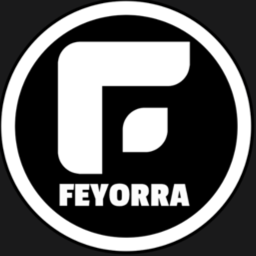
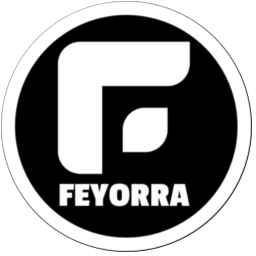
On branch master
1.Added new logos and tokens
2.Added new tables : wallets disponibilities & compatibilities
4.Release web3wallets v1

Changes to be committed:
	modified:   README.md
	modified:   config/css/main.css
	modified:   config/css/web3wallets.css
	new file:   media/buttons/boutonnoir.png
	new file:   media/buttons/boutonnoir2.png
	new file:   media/logos/aavelogo.png
	deleted:    media/logos/coinMachineLogo_v1.png
	deleted:    media/logos/cointribune.jpg
	new file:   media/logos/cointribune.png
	deleted:    media/logos/cryptoast.jpg
	new file:   media/logos/cryptoast.png
	new file:   media/logos/iopay.png
	new file:   media/logos/kpler.png
	new file:   media/logos/phantom.png
	deleted:    media/logos/twitter.jpg
	new file:   media/logos/twitter.png
	modified:   media/logos/valora.png
	modified:   media/thumbnails/ariswap01.png
	new file:   media/tokens/aave.png
	new file:   media/tokens/bfg.png
	new file:   media/tokens/biswap.png
	modified:   media/tokens/celo.png
	deleted:    media/tokens/elrond.png
	modified:   media/tokens/feyorra.png
	modified:   media/tokens/gnosis.png
	deleted:    media/tokens/gnosis_white.png
	new file:   media/tokens/litecoin.png
	modified:   media/tokens/moonriver.png
	new file:   media/tokens/pancakeswap.png
	new file:   media/tokens/wbtc.png
	new file:   media/tokens/weth.png
	modified:   pages/web3wallets.php
	modified:   scripts/paging/main_menu.php

Changed region(s): [[0.0, 0.0, 1.0, 1.0]]

diff --git a/config/css/web3wallets.css b/config/css/web3wallets.css
@@ -14,11 +14,12 @@
     padding: 0;
 }
 #wallets-main .row {
+    display: flex;
     margin: 0;
     padding: 0;
 }
 .wallet-container {
-    margin-left: 100px;
+    margin: 20px auto;
     margin-bottom: 10px;
     padding: 10px;
     border: 1px outset #06c883;
@@ -61,6 +62,71 @@
 #wmm-title:hover, #wmm-title a:hover, .wmm-link:hover, .wmm-link a:hover {
     background-image: linear-gradient(45deg, #8306c8, #06acc8);
 }
+/* *** *** *** USER TABLES *** *** *** */
+table {
+    opacity: 0.95;
+    border-collapse: collapse;
+}
+#wallet-compat-tab {
+    margin-top: 10px;
+}
+#wallet-compat-tab thead tr th{
+    writing-mode: vertical-lr;
+    padding-bottom: 4px;
+    text-align: center;
+}
+th {
+    flex-wrap: wrap;
+    vertical-align: bottom;
+    text-align: center;
+    padding-bottom: 2px;
+}
+tr {
+    margin: 0;
+    padding: 0;
+    border-bottom: 1px solid #06c883;
+}
+.user-check {
+    display: inline-block;
+    text-align: center;
+    vertical-align: middle;
+    justify-content: center;
+    align-items: center;
+    align-self: center;
+    font-size: 1.25em;
+}
+#wallet-dispo-tab thead tr {
+    background-clip: text;
+    -moz-background-clip: text;
+    -webkit-background-clip: text;
+    color: transparent;
+    background-image: linear-gradient(45deg, #ebef7b, #06c883);
+}
+#wallet-dispo-tab thead tr th {
+    font-family: "Share Tech Mono", monospace;
+    font-size: 1em;
+    color: transparent;
+}
+td a, th a {
+    font-family: "AudioWide", sans-serif;
+    font-size: 1.2em;
+    font-style: italic;
+    text-decoration: none;
+    background-clip: text;
+    -moz-background-clip: text;
+    -webkit-background-clip: text;
+    color: transparent;
+    background-image: linear-gradient(45deg, #06c883, #ebef7b);
+}
+td a:hover, th a:hover {
+    background-image: linear-gradient(45deg, #8306c8, #06acc8);
+}
+.tst {
+    font-family: "Share Tech Mono", monospace;
+    font-size: 1.2em;
+    text-align: right;
+    color: #06c883;
+}
 /* *** *** *** TITRAGES *** *** *** */
 #wallets-main-label, .wallet-details label {
     font-family: "Audiowide";
@@ -68,7 +134,6 @@
     -moz-background-clip: text;
     -webkit-background-clip: text;
     color: transparent;
-    
 }
 #wallets-main-label {
     margin: 10px auto;
@@ -92,6 +157,18 @@
     text-align: right;
     font-size: 1.1em;
     color: darkgray;
+}
+.wallet-rubric {
+    font-family: "Aldrich", sans-serif;
+    font-size: 1.5em;
+    font-weight: 600;
+    letter-spacing: 0.2em;
+    text-align: left;
+    background-clip: text;
+    -moz-background-clip: text;
+    -webkit-background-clip: text;
+    color: transparent;
+    background-image: linear-gradient(45deg, #ebef7b, #06c883);
 }
 /* *** *** *** USER CLASSES *** *** *** */
 .wallet-logo-container {
@@ -119,7 +196,7 @@
     color: #06c883;
 }
 .user-red {
-    color: #ff0000;
+    color: darkred;
 }
 .wallet-mobile-downloads {
     margin-top: 4px;
@@ -161,16 +238,27 @@
     color: transparent;
     background-image: linear-gradient(45deg, #06c883, #ebef7b);
 }
+.wallet-description a {
+    font-family: "Share Tech Mono", monospace;
+    color: #25f9e3;
+    text-decoration: none;
+}
+.wallet-description a:hover {
+    color: #7ece4d;
+    text-decoration: underline;
+}
 /* *** *** *** TOKENS STANDARDS CLASSES *** *** *** */
 :root {
     --eth1: #8c8c8c;
     --eth2: #505050;
     --eth3: #141414;
-    --bsc: #f4ba4f;
+    --bsc: #f4e94f;
     --tron: #fe0000;
-    --btc: #f7931a;
+    --btc: #db7c09;
     --erd: #25f9e3;
     --cerc: #7ece4d;
+    --spl: #5433d5;
+    --ibc: #0378c5;
 }
 .erc {
     border: 1px inset var(--eth2);
@@ -201,6 +289,16 @@
     border: 1px inset var(--cerc);
     box-shadow: 0 0 4px inset var(--cerc);
     color: var(--cerc);
+}
+.sol {
+    border: 1px inset var(--spl);
+    box-shadow: 0 0 4px inset var(--spl);
+    color: var(--spl);
+}
+.atom {
+    border: 1px inset var(--ibc);
+    box-shadow: 0 0 4px inset var(--ibc);
+    color: var(--ibc);
 }
 .wallet-compatibility {
     margin: 2px 2px;

diff --git a/config/css/main.css b/config/css/main.css
@@ -5,7 +5,7 @@
 // Role         : main CSS stylesheet
 // Author       : CoinMachine
 // Creation     : 2023-06-11
-// Last update  : 2023-06-12
+// Last update  : 2023-06-15
 // ===================================================================================================== */
 /* 
     green : #60e660
@@ -95,14 +95,19 @@ body {
     width: 100%;
 }
 #main-navbar-container a, #main-navbar-container ul li a {
+    width: fit-content;
+    min-width: 120px;
+    margin: 0 10px;
     padding: 5px 15px;
     font-family: "Aldrich";
     font-size: 20px;
-    text-align: left;
+    text-align: center;
+    background-color: #000;
+    color: #00a36a;
     transition: all 0.85s ease-in-out;
 }
 #main-navbar-container a:hover {
-    background-color: #06c883;
+    background-color: #00a36a;
     color: #000;
     border-radius: 20px;
 }
@@ -114,7 +119,7 @@ body {
     min-width: 15rem;
     width: 100%;
     padding-left: 10px;
-    opacity: 0.8;
+    opacity: 0.85;
     background-color: #000;
     border: 1px solid #06c883;
 }
@@ -122,6 +127,16 @@ body {
     display: inline-block;
     width: 100%;
     flex-wrap: nowrap;
+    padding: 5px 15px;
+    font-family: "Aldrich";
+    font-size: 20px;
+    text-align: left;
+    transition: all 0.85s ease-in-out; 
+}
+.ddm-user li:hover, .ddm-user li a:hover {
+    background-color: #06c883;
+    color: #000;
+    border-radius: 20px;
 }
 .ddm-hr {
     margin: 5px auto;

diff --git a/pages/web3wallets.php b/pages/web3wallets.php
@@ -20,6 +20,7 @@ $siteInformations = [];
 
 $tabWallets = getWalletsInformations();                 // Get the wallets informations
 $tabCompatibilities = getWalletsCompatibilities();      // Get the wallets compatibilities
+$tabTokenStandards = getTokenStandards();               // Get the token standards
 
 createHTMLheader($fileName, $siteInformations);         // Create the HTML header
 createPageheader($fileName);                            // Create the page header
@@ -39,8 +40,82 @@ creatMainMenu($fileName);                               // Create the main menu
 <?php   } ?>
             </ul>
         </nav>
-        <section id ="wallets-main" class="offset-5 col-8">
+        <section id ="wallets-main" class="offset-6 col-8">
             <div class="row">
+<!-- --- --- --- WALLETS DETAILS SUMMARY --- --- --- -->
+                <h3 class="wallet-rubric col-7">Disponibilités</h3>
+                <table id="wallet-dispo-tab" class="col-12">
+                    <thead>
+                        <tr class="row">
+                            <th class="col-3"></th>
+                            <th class="col-2">iOS</th>
+                            <th class="col-2">Android</th>
+                            <th class="col-2">Wallet Connect</th>
+                            <th class="col-3">Browser extension</th>
+                        </tr>
+                    </thead>
+                    <tbody>
+<?php   for($i = 0; $i < count($tabWallets); $i++){ ?>
+                        <tr class="row">
+                            <td class="col-3"><a href="<?php echo "#wallet" . $i;?>"><?php echo $tabWallets[$i]['Name'];?></a></td>
+<?php       if($tabWallets[$i]['Applestore'] != ""){ ?>
+                            <td class="user-check col-2"><span class="fa-solid fa-check user-green"></span></td>
+<?php       } else { ?>
+                            <td class="user-check col-2"><span class="fa-solid fa-xmark user-red"></span></td>
+<?php       }
+            if($tabWallets[$i]['Playstore'] != ""){ ?>
+                            <td class="user-check col-2"><span class="fa-solid fa-check user-green"></span></td>
+<?php       } else { ?>
+                            <td class="user-check col-2"><span class="fa-solid fa-xmark user-red"></span></td>
+<?php       }
+            if($tabWallets[$i]['WalletConnect'] != FALSE){ ?>
+                            <td class="user-check col-2"><span class="fa-solid fa-check user-green"></span></td>
+<?php       } else { ?>
+                            <td class="user-check col-2"><span class="fa-solid fa-xmark user-red"></span></td>
+<?php       }
+            if($tabWallets[$i]['Browser'] != ""){ ?>
+                            <td class="user-check col-3"><span class="fa-solid fa-check user-green"></span></td>
+<?php       } else { ?>
+                            <td class="user-check col-3"><span class="fa-solid fa-xmark user-red"></span></td>
+<?php       } ?>
+                        </tr>
+<?php   } ?>
+                    </tbody>
+                </table>
+                <table id="wallet-compat-tab" class="col-12">
+                    <thead>
+                        <tr class="row">
+                            <th class="col-2"></th>
+<?php   for($i = 0; $i < count($tabWallets); $i++){ ?>
+                            <th class="col-1"><a href="<?php echo "#wallet" . $i;?>"><?php echo $tabWallets[$i]['Name'];?></a></th>
+<?php   } ?>
+                        </tr>
+                    </thead>
+                    <tbody>
+<!-- --- --- TOKENS STANDARDS LINES --- --- -->
+<?php   for($k = 0; $k < count($tabTokenStandards); $k++){ ?>
+<!-- --- --- <?php echo $tabTokenStandards[$k]['Name'];?> LINE --- --- -->
+                        <tr class="row">
+                                <td class="tst col-2"><?php echo $tabTokenStandards[$k]['Name'];?></td>
+<?php       $tabStandard = getWalletsCompByStandard($tabTokenStandards[$k]['Id']);
+            for($i = 0; $i < count($tabWallets); $i++){
+                $boolCheck = FALSE; ?>
+                                <td class="user-check col-1">
+<?php           for($j = 0; $j < count($tabStandard); $j++){
+                    if($tabStandard[$j]['WalletId'] == $tabWallets[$i]['Id']){
+                            $boolCheck = TRUE; ?>
+                                    <span class="fa-solid fa-check user-green"></span></td>
+<?php               }
+                }
+                if ($boolCheck != TRUE) { ?>
+                                    <span class="fa-solid fa-xmark user-red"></span></td>
+<?php           }
+            }?>
+                                </tr>
+<?php   } ?>
+                    </tbody>
+                </table>
+<!-- --- --- --- WALLETS DETAILS --- --- --- -->
 <?php   for($i = 0; $i < count($tabWallets); $i++){
             $strLogoFile = "../media/logos/" . $tabWallets[$i]['LogoFile'];
             if($tabWallets[$i]['Mobile'] != FALSE){
@@ -54,7 +129,7 @@ creatMainMenu($fileName);                               // Create the main menu
                 $strWalletConnectClass = "fa-solid fa-xmark user-red";
             }
 ?>
-                <article id="wallet<?php echo $i;?>" class="wallet-container col-12">
+                <article id="wallet<?php echo $i;?>" class="wallet-container col-md-12 col-lg-10 col-xl-10">
                     <div class="row">
                         <div class="wallet-logo-container col-4">
                             <img class="wallet-logo" src="<?php echo $strLogoFile;?>" title="<?php echo $tabWallets[$i]['Tooltip'];?>">
@@ -107,6 +182,10 @@ creatMainMenu($fileName);                               // Create the main menu
                         $strItemClass = "erd wallet-compatibility col-2";
                     } elseif($tabCompatibilities[$j]['TokenStandardId'] == 8) {
                         $strItemClass = "celo wallet-compatibility col-2";
+                    } elseif($tabCompatibilities[$j]['TokenStandardId'] == 9) {
+                        $strItemClass = "sol wallet-compatibility col-2";
+                    } elseif($tabCompatibilities[$j]['TokenStandardId'] == 10) {
+                        $strItemClass = "atom wallet-compatibility col-2";
                     }
                     ?>
                                 <div class="<?php echo $strItemClass;?>" title="<?php echo $tabCompatibilities[$j]['TokenStandardToolTip'];?>"><?php echo $tabCompatibilities[$j]['TokenStandard'];?></div>

diff --git a/scripts/paging/main_menu.php b/scripts/paging/main_menu.php
@@ -33,7 +33,7 @@ function creatMainMenu($fileName){
 <!-- --- --- --- MAIN NAVIGATION BAR --- --- --- -->
         <nav id="main-navbar" class="navbar navbar-expand-lg navbar-expand-md col-xs-10 col-sm-10 col-md-10 col-10">
             <div id="main-navbar-container" class="container-fluid">
-                <a class="navbar-brand" href="#home">
+                <a id="mld" class="navbar-brand" href="#home">
                     <img id="menu-logo" src="<?php echo $strMenuLogo;?>" alt="CoinMachine logo">
                 </a>
 <!-- Responsive menu toggling image -->

diff --git a/README.md b/README.md
@@ -17,8 +17,8 @@ Our mission is to help individuals understand blockchains and cryptocurrencies, 
 ## Main Navigation
 
 ### Profil
-- **[Profile FR]**(profile_fr_link)
-- **[Profile EN]**(profile_en_link)
+- [Profile FR](profile_fr_link)
+- [Profile EN](profile_en_link)
 
 - [Contacts](contacts_link)
 - [Disclaimer](disclaimer_link)
@@ -32,10 +32,12 @@ Our mission is to help individuals understand blockchains and cryptocurrencies, 
 ### Ressources
 - [Tutoriels](tutorials_link)
 - [ToolBox](toolbox_link)
-- **Medias**
+- [Medias](medias_link)
   - [Actualités](news_link)
   - [Charts](charts_link)
   - [YouTubers](youtubers_link)
   - [Twittos](twittos_link)
 - ---
 ## Projets
+
+
